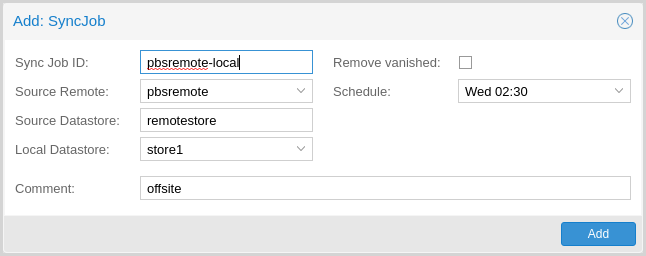
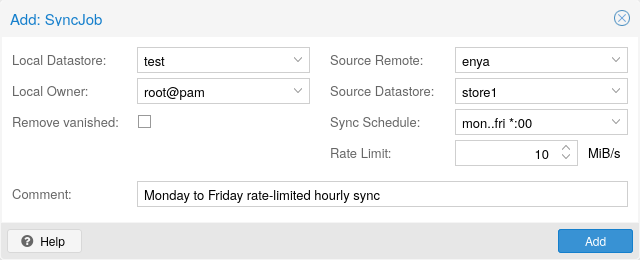
docs: add/update tc related screenshots & content, document tc for sync-job

diff --git a/docs/traffic-control.rst b/docs/traffic-control.rst
@@ -3,10 +3,30 @@
 Traffic Control
 ---------------
 
-Proxmox Backup Server allows to limit network traffic for clients
-within specified source networks. The following command adds a traffic
-control rule to limit all clients (network ``0.0.0.0/0``) to 100 MB/s:
+.. image:: images/screenshots/pbs-gui-traffic-control-add.png
+  :align: right
+  :alt: Add a traffic control limit
 
+Creating and restoring backups can produce lots of traffic and impact other
+users of the network or shared storages.
+
+Proxmox Backup Server allows to limit network traffic for clients within
+specified networks using a token bucket filter (TBF).
+
+This allows you to avoid network congestion or to prioritize traffic from
+certain hosts.
+
+You can manage the traffic controls either over the web-interface or using the
+``traffic-control`` commandos of the ``proxmox-backup-manager`` command-line
+tool.
+
+.. note:: Sync jobs on the server are not affected by its rate-in limits. If
+   you want to limit the incomming traffic that a pull-based sync job
+   generates, you need to setup a job-specific rate-in limit. See
+   :ref:`syncjobs`.
+
+The following command adds a traffic control rule to limit all IPv4 clients
+(network ``0.0.0.0/0``) to 100 MB/s:
 
 .. code-block:: console
 
@@ -14,8 +34,14 @@ control rule to limit all clients (network ``0.0.0.0/0``) to 100 MB/s:
    --rate-in 100MB --rate-out 100MB \
    --comment "Default rate limit (100MB/s) for all clients"
 
-It is possible to restrict rules to certain time frames, for example
-the company office hours:
+.. note:: To limit both IPv4 and IPv6 network spaces you need to pass two
+   network parameters ``::/0`` and ``0.0.0.0/0``.
+
+It is possible to restrict rules to certain time frames, for example the
+company office hours:
+
+.. tip:: You can use SI (base 10: KB, MB, ...) or IEC (base 2: KiB, MiB, ...)
+   units.
 
 .. code-block:: console
 
@@ -23,9 +49,9 @@ the company office hours:
    --timeframe "mon..fri 8-12" \
    --timeframe "mon..fri 14:30-18"
 
-If there are more rules, the server uses the rule with the smaller
-network. For example, we can overwrite the setting for our private
-network (and the server itself) with:
+If there are more rules, the server uses the rule with the smaller network. For
+example, we can overwrite the setting for our private network (and the server
+itself) with:
 
 .. code-block:: console
 
@@ -36,6 +62,10 @@ network (and the server itself) with:
    --comment "Use 20GB/s for the local network"
 
 .. note:: The behavior is undefined if there are several rules for the same network.
+
+If there are multiple rules that match the same network all of them will be
+applied, which means that the smallest one wins, as it's bucket fills up the
+fastest.
 
 To list the current rules use:
 

diff --git a/docs/managing-remotes.rst b/docs/managing-remotes.rst
@@ -85,6 +85,11 @@ To set up sync jobs, the configuring user needs the following permissions:
 #. ``Remote.Read`` on the ``/remote/{remote}/{remote-store}`` path
 #. At least ``Datastore.Backup`` on the local target datastore (``/datastore/{store}``)
 
+.. note:: A sync job can only sync backup groups that the configured remote's
+  user/API token can read. If a remote is configured with a user/API token that
+  only has ``Datastore.Backup`` privileges, only the limited set of accessible
+  snapshots owned by that user/API token can be synced.
+
 If the ``remove-vanished`` option is set, ``Datastore.Prune`` is required on
 the local datastore as well. If the ``owner`` option is not set (defaulting to
 ``root@pam``) or is set to something other than the configuring user,
@@ -107,7 +112,15 @@ of the specified criteria are synced. The available criteria are:
 The same filter is applied to local groups for handling of the
 ``remove-vanished`` option.
 
-.. note:: A sync job can only sync backup groups that the configured remote's
-  user/API token can read. If a remote is configured with a user/API token that
-  only has ``Datastore.Backup`` privileges, only the limited set of accessible
-  snapshots owned by that user/API token can be synced.
+
+Bandwidth Limit
+^^^^^^^^^^^^^^^
+
+Syncing datastores to an archive can produce lots of traffic and impact other
+users of the network. So, to avoid network or storage congetsion you can limit
+the bandwith of the sync job by setting the ``rate-in`` option either in the
+web interface or using the ``proxmox-backup-manager`` command-line tool:
+
+.. code-block:: console
+
+    # proxmox-backup-manager sync-job update ID --rate-in 20MiB
